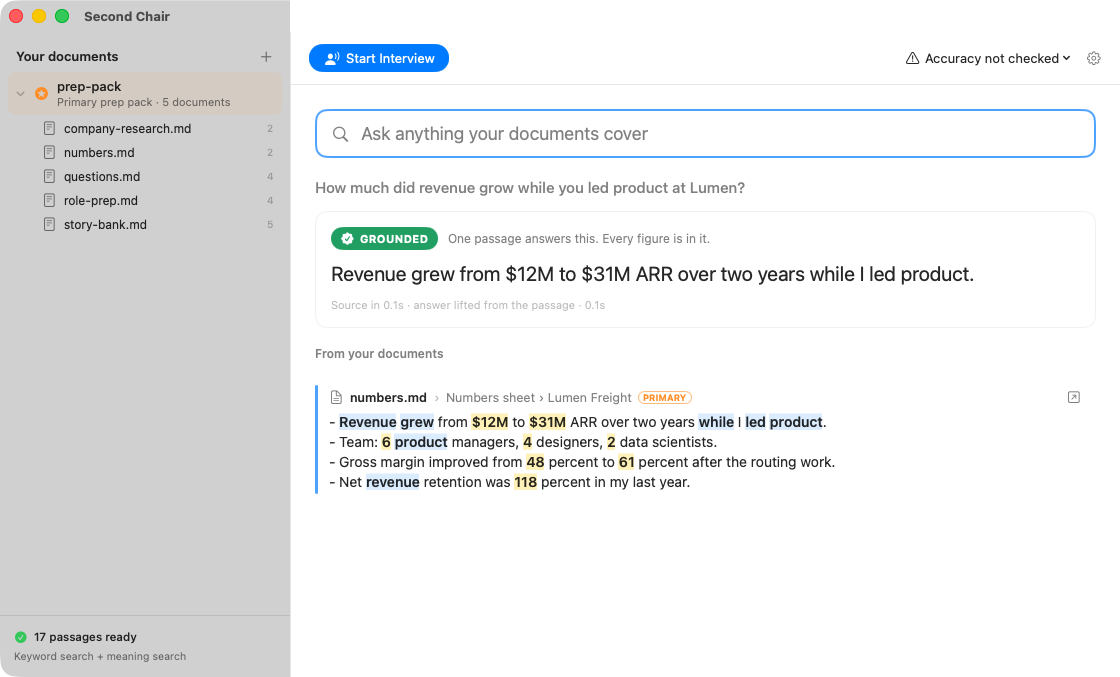
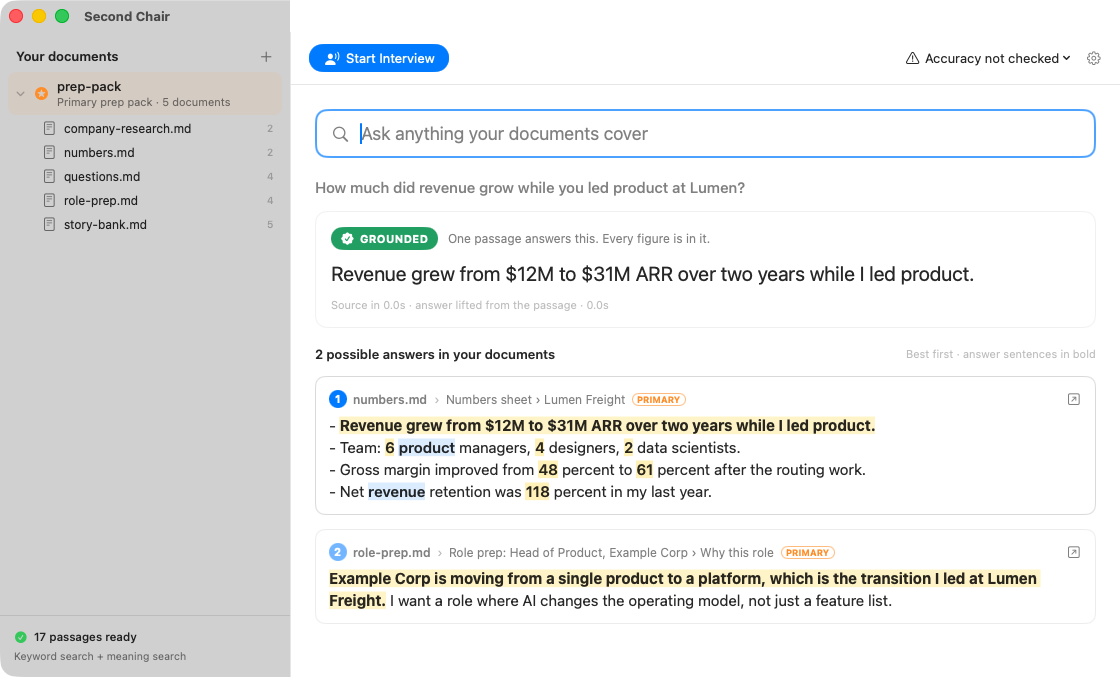
Second Chair: every possible answer, shown in place (#88)
* Second Chair: show every possible answer in place, answer sentences in bold

Claude-Session: https://claude.ai/code/session_01NyLwNebtuJLxQbGcfEHPbn

* Second Chair: lower bar for listing alternative answers

Claude-Session: https://claude.ai/code/session_01NyLwNebtuJLxQbGcfEHPbn

* Second Chair docs: app screenshots

* Second Chair: keyword matches rank above fuzzy meaning matches; label uses the best match anywhere

Claude-Session: https://claude.ai/code/session_01NyLwNebtuJLxQbGcfEHPbn

* Second Chair docs: app screenshots

---------

diff --git a/tools/second-chair/Sources/SecondChairApp/MainWindow.swift b/tools/second-chair/Sources/SecondChairApp/MainWindow.swift
@@ -397,7 +397,9 @@ struct AnswerView: View {
                     VStack(alignment: .leading, spacing: 12) {
                         HStack(spacing: 10) {
                             LabelPill(label: card.label)
-                            Text(card.matchedQuestion != nil ? "You wrote this answer. Shown as written." : card.label.explanation)
+                            Text(card.matchedQuestion != nil ? "You wrote this answer. Shown as written."
+                                 : card.label == .notInDocs && !card.candidates.isEmpty ? "No single passage answers this directly. The closest possibilities are below."
+                                 : card.label.explanation)
                                 .font(.system(size: 12)).foregroundStyle(.secondary).lineLimit(2)
                             Spacer()
                         }
@@ -427,14 +429,20 @@ struct AnswerView: View {
                     }
                 }
 
-                if !card.passages.isEmpty {
-                    Text(card.label == .notInDocs ? "Closest passage (doesn't answer it)" : card.passages.count > 1 ? "From \(card.passages.count) passages in your documents" : "From your documents")
-                        .font(.system(size: 12, weight: .semibold)).foregroundStyle(.secondary)
-                        .padding(.top, 4)
-                    ForEach(Array(card.passages.enumerated()), id: \.offset) { _, hit in
-                        SourceCard(hit: hit, question: item.question, dim: card.label == .notInDocs,
-                                   headerOnly: hit.via == .prepared)
+                let options = card.candidates.filter { $0.chunk.text != card.answer }
+                if !options.isEmpty {
+                    HStack {
+                        Text(options.count == 1 ? "Possible answer in your documents" : "\(options.count) possible answers in your documents")
+                            .font(.system(size: 13, weight: .semibold))
+                        Spacer()
+                        Text("Best first · answer sentences in bold").font(.system(size: 11)).foregroundStyle(.tertiary)
                     }
+                    .padding(.top, 4)
+                    ForEach(Array(options.enumerated()), id: \.element.chunk.id) { i, hit in
+                        CandidateCard(rank: i + 1, hit: hit, question: item.question)
+                    }
+                } else if card.label == .notInDocs {
+                    Text("Nothing in your documents comes close.").font(.system(size: 13)).foregroundStyle(.secondary)
                 }
             } else {
                 HStack(spacing: 8) {
@@ -455,20 +463,21 @@ struct AnswerView: View {
     }
 }
 
-struct SourceCard: View {
+/// One possible answer, shown in place: the whole passage, with the sentences that answer the question in bold.
+struct CandidateCard: View {
+    var rank: Int
     var hit: Hit
     var question: String
-    var dim = false
-    var headerOnly = false
 
     var body: some View {
         VStack(alignment: .leading, spacing: 8) {
             HStack(spacing: 6) {
-                Image(systemName: "doc.text").foregroundStyle(.secondary)
-                Text(hit.chunk.fileName).font(.system(size: 12.5, weight: .semibold))
+                Text("\(rank)").font(.system(size: 11, weight: .bold)).foregroundStyle(.white)
+                    .frame(width: 18, height: 18).background(Color.accentColor.opacity(rank == 1 ? 1 : 0.55), in: Circle())
+                Text(hit.chunk.fileName).font(.system(size: 12, weight: .semibold)).foregroundStyle(.secondary)
                 if !hit.chunk.headings.isEmpty {
                     Text("›").foregroundStyle(.tertiary)
-                    Text(hit.chunk.headingPath).font(.system(size: 12.5)).foregroundStyle(.secondary).lineLimit(1)
+                    Text(hit.chunk.headingPath).font(.system(size: 12)).foregroundStyle(.secondary).lineLimit(1)
                 }
                 if hit.primary {
                     Text("PRIMARY").font(.system(size: 9, weight: .bold)).foregroundStyle(.orange)
@@ -482,21 +491,19 @@ struct SourceCard: View {
                 .buttonStyle(.borderless)
                 .help("Open the document")
             }
-            if !headerOnly {
-            Text(Highlight.passage(hit.chunk.text, question: question))
-                .font(.system(size: 14))
+            if let q = hit.chunk.question {
+                Text("You wrote this for: \u{201C}\(q)\u{201D}").font(.system(size: 12, weight: .medium)).foregroundStyle(.green)
+            }
+            Text(hit.via == .prepared ? AttributedString(hit.chunk.text) : Highlight.inPlace(hit.chunk.text, question: question, size: 15))
+                .font(.system(size: 15))
                 .lineSpacing(3)
                 .textSelection(.enabled)
                 .fixedSize(horizontal: false, vertical: true)
-                .opacity(dim ? 0.7 : 1)
-            }
         }
         .padding(14)
         .frame(maxWidth: .infinity, alignment: .leading)
-        .background(Color(nsColor: .textBackgroundColor).opacity(0.6), in: RoundedRectangle(cornerRadius: 10, style: .continuous))
-        .overlay(alignment: .leading) {
-            RoundedRectangle(cornerRadius: 2).fill(dim ? Color.gray.opacity(0.4) : Color.accentColor.opacity(0.7)).frame(width: 3).padding(.vertical, 10)
-        }
+        .background(Color(nsColor: .textBackgroundColor).opacity(rank == 1 ? 0.9 : 0.55), in: RoundedRectangle(cornerRadius: 10, style: .continuous))
+        .overlay(RoundedRectangle(cornerRadius: 10, style: .continuous).strokeBorder(Color.secondary.opacity(rank == 1 ? 0.3 : 0.15)))
     }
 }
 

diff --git a/tools/second-chair/Sources/SecondChairCore/Retriever.swift b/tools/second-chair/Sources/SecondChairCore/Retriever.swift
@@ -33,7 +33,8 @@ public struct RetrievalSettings: Sendable {
     public var primaryBoost = 1.6
     /// Weight of terms carried over from the previous question in a follow-up.
     public var followUpWeight = 0.5
-    public var maxHits = 4
+    /// How many possible answers to look for. The label uses the best few; the rest are shown as alternatives.
+    public var maxHits = 8
     /// A question you wrote counts as the same question when it shares this much of its wording...
     public var preparedOverlap = 0.6
     /// ...or means this nearly the same (embedding similarity, question to question).
@@ -74,10 +75,10 @@ public struct Retriever: Sendable {
         return weights
     }
 
-    /// The question you wrote an answer to that matches this one best, if it's close enough.
-    public func matchPrepared(_ question: String) async -> Hit? {
+    /// Every question you wrote an answer to that matches this one, best first.
+    public func matchPreparedAll(_ question: String) async -> [Hit] {
         let asked = index.chunks.filter { $0.question != nil }
-        guard !asked.isEmpty else { return nil }
+        guard !asked.isEmpty else { return [] }
         let incoming = Set(Lexicon.terms(question))
         var sims: [String: Double] = [:]
         if let embedder, !index.questionVectors.isEmpty, index.embedderName == embedder.name,
@@ -85,7 +86,7 @@ public struct Retriever: Sendable {
             let q = Vector.normalized(qv)
             for chunk in asked { if let v = index.questionVectors[chunk.id] { sims[chunk.id] = Double(max(0, Vector.dot(q, v))) } }
         }
-        var best: Hit?
+        var found: [Hit] = []
         for chunk in asked {
             let stored = Set(Lexicon.terms(chunk.question ?? ""))
             let overlap = incoming.isEmpty || stored.isEmpty ? 0
@@ -93,20 +94,24 @@ public struct Retriever: Sendable {
             let sim = sims[chunk.id] ?? 0
             guard overlap >= settings.preparedOverlap || sim >= settings.preparedSimilarity else { continue }
             let primary = chunk.folder == primaryFolder
-            let hit = Hit(chunk: chunk, coverage: overlap, similarity: sim,
-                          score: max(overlap, sim) * (primary ? settings.primaryBoost : 1), via: .prepared, primary: primary)
-            if best == nil || hit.score > best!.score { best = hit }
+            found.append(Hit(chunk: chunk, coverage: overlap, similarity: sim,
+                             score: max(overlap, sim) * (primary ? settings.primaryBoost : 1), via: .prepared, primary: primary))
         }
-        return best
+        return found.sorted { $0.score > $1.score }
+    }
+
+    /// The question you wrote an answer to that matches this one best, if it's close enough.
+    public func matchPrepared(_ question: String) async -> Hit? {
+        await matchPreparedAll(question).first
     }
 
     public func retrieve(_ question: String, previous: [String] = []) async -> [Hit] {
-        // Your own written answer to this question comes first; passages follow as context.
-        if let prepared = await matchPrepared(question) {
-            let rest = await retrievePassages(question, previous: previous).filter { $0.chunk.id != prepared.chunk.id }
-            return [prepared] + rest.prefix(settings.maxHits - 1)
-        }
-        return await retrievePassages(question, previous: previous)
+        // Your own written answers to this question come first; other passages follow as alternatives.
+        let prepared = await matchPreparedAll(question)
+        guard !prepared.isEmpty else { return await retrievePassages(question, previous: previous) }
+        let ids = Set(prepared.map(\.chunk.id))
+        let rest = await retrievePassages(question, previous: previous).filter { !ids.contains($0.chunk.id) }
+        return Array((prepared + rest).prefix(settings.maxHits))
     }
 
     public func retrievePassages(_ question: String, previous: [String] = []) async -> [Hit] {
@@ -142,7 +147,9 @@ public struct Retriever: Sendable {
                     seen.insert(h.chunk.id)
                     if hits.count >= settings.maxHits { break }
                 }
-                hits.sort { $0.strength * ($0.primary ? 1.15 : 1) > $1.strength * ($1.primary ? 1.15 : 1) }
+                // Exact word matches are more trustworthy than meaning matches, so they rank a step higher.
+                func rank(_ h: Hit) -> Double { (h.via == .keyword ? h.coverage + 0.15 : h.strength) * (h.primary ? 1.15 : 1) }
+                hits.sort { rank($0) > rank($1) }
             }
         }
         return Array(hits.prefix(settings.maxHits))

diff --git a/tools/second-chair/Sources/SecondChairCore/Answering.swift b/tools/second-chair/Sources/SecondChairCore/Answering.swift
@@ -20,6 +20,8 @@ public struct AnswerCard: Sendable {
     /// Passages shown verbatim: one for GROUNDED, every passage used for SYNTHESIZED,
     /// the closest one (if worth seeing) for NOT IN YOUR DOCS.
     public var passages: [Hit]
+    /// Every place in your documents that could answer this, best first, so you can pick.
+    public var candidates: [Hit] = []
     /// Two or three sentences, or nil while it's being written, or when withheld.
     public var answer: String?
     /// Which path wrote the answer: a model name, or "extract" for sentences lifted from the passage.
@@ -42,6 +44,9 @@ public struct LabelThresholds: Sendable {
     /// Below this, even the closest passage isn't worth showing.
     public var closestCoverage = 0.25
     public var closestSimilarity = 0.45
+    /// A lower bar for listing other possible answers beneath the main one.
+    public var alternativeCoverage = 0.2
+    public var alternativeSimilarity = 0.4
     public init() {}
 }
 
@@ -93,6 +98,24 @@ public struct Answerer: Sendable {
         passages. If the passages do not answer the question, reply with exactly \(notCovered) and nothing else.
         """
 
+    /// Close enough to the question to be worth showing as a possible answer.
+    public func isWorthShowing(_ h: Hit) -> Bool {
+        switch h.via {
+        case .prepared: return true
+        case .keyword: return h.coverage >= thresholds.closestCoverage
+        case .embedding: return h.similarity >= thresholds.closestSimilarity
+        }
+    }
+
+    /// Related enough to list as another possible answer.
+    public func isAlternative(_ h: Hit) -> Bool {
+        switch h.via {
+        case .prepared: return true
+        case .keyword: return h.coverage >= thresholds.alternativeCoverage
+        case .embedding: return h.similarity >= thresholds.alternativeSimilarity
+        }
+    }
+
     public func label(_ hits: [Hit]) -> (AnswerLabel, [Hit]) {
         func strong(_ h: Hit) -> Bool {
             h.via == .keyword ? h.coverage >= thresholds.groundedCoverage : h.strength >= thresholds.groundedSimilarity
@@ -100,11 +123,9 @@ public struct Answerer: Sendable {
         func support(_ h: Hit) -> Bool {
             h.via == .keyword ? h.coverage >= thresholds.supportCoverage : h.strength >= thresholds.supportSimilarity
         }
-        func closest(_ h: Hit) -> Bool {
-            h.via == .keyword ? h.coverage >= thresholds.closestCoverage : h.strength >= thresholds.closestSimilarity
-        }
+        let closest = isWorthShowing
         if let top = hits.first, top.via == .prepared { return (.grounded, [top]) }
-        if let top = hits.first, strong(top) { return (.grounded, [top]) }
+        if let best = hits.filter(strong).max(by: { $0.strength < $1.strength }) { return (.grounded, [best]) }
         let supporting = hits.filter(support)
         if supporting.count >= 2 { return (.synthesized, Array(supporting.prefix(3))) }
         if let near = hits.first(where: closest) { return (.notInDocs, [near]) }
@@ -116,6 +137,8 @@ public struct Answerer: Sendable {
                        onSource: @Sendable (AnswerCard) -> Void = { _ in }) async -> AnswerCard {
         let (label, passages) = label(hits)
         var card = AnswerCard(question: question, label: label, passages: passages)
+        var seen = Set<String>()
+        card.candidates = hits.filter { isAlternative($0) && seen.insert($0.chunk.id).inserted }
         card.sourceLatency = Date().timeIntervalSince(started)
         onSource(card)
         guard label != .notInDocs else { return card }

diff --git a/tools/second-chair/Sources/SecondChairApp/Overlay.swift b/tools/second-chair/Sources/SecondChairApp/Overlay.swift
@@ -116,8 +116,13 @@ struct OverlayAnswer: View {
                 ScrollView {
                     VStack(alignment: .leading, spacing: 10) {
                         answerText(card)
-                        ForEach(Array(card.passages.enumerated()), id: \.offset) { _, hit in
-                            if hit.via != .prepared { passage(hit, card: card) }
+                        let options = card.candidates.filter { $0.chunk.text != card.answer }
+                        if !options.isEmpty {
+                            Text(options.count == 1 ? "POSSIBLE ANSWER" : "\(options.count) POSSIBLE ANSWERS")
+                                .font(.system(size: 9.5, weight: .bold)).tracking(0.5).foregroundStyle(.secondary)
+                        }
+                        ForEach(Array(options.enumerated()), id: \.element.chunk.id) { _, hit in
+                            passage(hit, card: card)
                         }
                     }
                 }
@@ -146,12 +151,11 @@ struct OverlayAnswer: View {
 
     func passage(_ hit: Hit, card: AnswerCard) -> some View {
         VStack(alignment: .leading, spacing: 4) {
-            if card.passages.count > 1 {
-                Text(hit.chunk.sourceLine).font(.system(size: 10.5, weight: .semibold)).foregroundStyle(.secondary)
+            if true {
+                Text(hit.chunk.question.map { "You wrote this for: \($0)" } ?? hit.chunk.sourceLine).font(.system(size: 10.5, weight: .semibold)).foregroundStyle(.secondary)
             }
-            Text(Highlight.passage(hit.chunk.text, question: item.question, size: 13))
+            Text(hit.via == .prepared ? AttributedString(hit.chunk.text) : Highlight.inPlace(hit.chunk.text, question: item.question, size: 13))
                 .font(.system(size: 13)).lineSpacing(2)
-                .opacity(card.label == .notInDocs ? 0.65 : 1)
                 .fixedSize(horizontal: false, vertical: true)
         }
         .padding(10)

diff --git a/tools/second-chair/Tests/SecondChairCoreTests/CoreTests.swift b/tools/second-chair/Tests/SecondChairCoreTests/CoreTests.swift
@@ -166,6 +166,24 @@ final class PreparedAnswerTests: XCTestCase {
         XCTAssertEqual(card.matchedQuestion, "What's your management style?")
     }
 
+    func testAllPossibleAnswersAreListed() async {
+        let md = """
+        # Stories
+        ## Support
+        I cut support response time from 41 hours to 3 hours with AI triage.
+        ## Launch
+        Our dispatch launch broke for two accounts; I now ship to 10 percent first.
+        ## Pricing
+        I talked the CEO out of a custom pricing engine.
+        """
+        let index = CorpusIndex(chunks: Chunker.chunk(text: md, file: "/p/s.md", folder: "/p", markdown: true))
+        let q = "Tell me about a time you used AI to cut response time on a launch"
+        let hits = await Retriever(index: index).retrieve(q)
+        let card = await Answerer().answer(q, hits: hits)
+        XCTAssertGreaterThanOrEqual(card.candidates.count, 2, "support and launch both relate")
+        XCTAssertEqual(Set(card.candidates.map(\.chunk.id)).count, card.candidates.count, "no duplicates")
+    }
+
     func testUnmatchedQuestionFallsBackToModel() async {
         let index = CorpusIndex(chunks: Chunker.chunk(text: doc, file: "/p/q.md", folder: "/p", markdown: true))
         let hits = await Retriever(index: index).retrieve("What is your salary expectation?")

diff --git a/tools/second-chair/Sources/SecondChairApp/Theme.swift b/tools/second-chair/Sources/SecondChairApp/Theme.swift
@@ -91,6 +91,22 @@ enum Highlight {
     }
 }
 
+extension Highlight {
+    /// The whole passage with the sentences that answer the question in bold, so the answer is read in place.
+    static func inPlace(_ text: String, question: String, size: CGFloat = 15) -> AttributedString {
+        var out = passage(text, question: question, size: size)
+        let answer = Answerer.extract(question, from: text)
+        for sentence in Lexicon.sentences(answer) {
+            let needle = sentence.trimmingCharacters(in: .whitespaces)
+            guard needle.count > 3, let r = out.range(of: needle) else { continue }
+            out[r].font = .system(size: size, weight: .bold)
+            out[r].foregroundColor = Color.primary
+            out[r].backgroundColor = Color.yellow.opacity(0.22)
+        }
+        return out
+    }
+}
+
 struct Card<Content: View>: View {
     @ViewBuilder var content: Content
     var body: some View {

diff --git a/tools/second-chair/Sources/SecondChairApp/Screenshots.swift b/tools/second-chair/Sources/SecondChairApp/Screenshots.swift
@@ -22,6 +22,7 @@ enum Screenshots {
 
         let questions = [("3-grounded", "How much did revenue grow while you led product at Lumen?"),
                          ("4-prepared", "How would you describe your management style?"),
+                         ("4b-several", "Tell me about a launch where you used AI to improve response time."),
                          ("5-not-in-docs", "How would you price a freemium consumer mobile game?")]
         for (name, q) in questions {
             model.ask(q)
